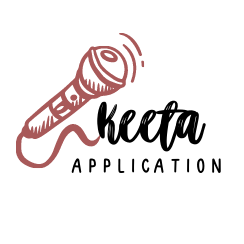
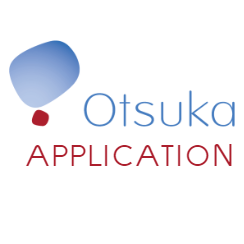
feat: 🎸 (edit-design)

Changed region(s): [[0.0287, 0.1148, 0.9754, 0.7172], [0.832, 0.4016, 0.8607, 0.4303]]

diff --git a/public/index.html b/public/index.html
@@ -3,10 +3,10 @@
     <head>
         <meta charset="UTF-8" />
         <meta name="viewport" content="width=device-width, initial-scale=1.0">
-        <title>KEETA</title>
+        <title>MSA</title>
         <link rel="stylesheet" href="style.css" />
         <link rel="shortcut icon" type="image/png" href="src/1.png"/>
-        <link rel="stylesheet" href="https://cdnjs.cloudflare.com/ajax/libs/font-awesome/4.7.0/css/font-awesome.min.css">
+        <link rel="stylesheet" href="https://cdnjs.cloudflare.com/ajax/libs/font-awesome/6.2.0/css/all.min.css" integrity="sha512-xh6O/CkQoPOWDdYTDqeRdPCVd1SpvCA9XXcUnZS2FmJNp1coAFzvtCN9BmamE+4aHK8yyUHUSCcJHgXloTyT2A==" crossorigin="anonymous" referrerpolicy="no-referrer" />
         <link href='https://unpkg.com/boxicons@2.1.1/css/boxicons.min.css' rel='stylesheet'>
         <script src="script.js" defer></script>
     </head>
@@ -21,13 +21,16 @@
             <!-- <div class="main"> -->
                     <div class="main-data" id="grad1">
                         <div class="main-texts">
-                            <p class="head-maintext">คีตา KEETA Application</p>
+                            <p class="head-maintext">MSA Application</p>
                             <p class="subhead-maintext">-------------------------------------</p>
-                            <p class="subhead-maintext">แอพพลิเคชั่น คีตศิลป์ไทย</p>
-                            <p class="sub-maintext" style="margin-top: 10px;">แอพพลิเคชั่น เรียนรู้หลักการขับร้องเพลงไทย ประวัติ เนื้อเพลง และอีกมากมายของคีตศิลป์ไทย ด้วยการนำเทคโนโลยีมาใช้ร่วมกับการเรียน เพื่อให้สามารถเรียนได้อย่างมีประสิทธิภาพมากขึ้น ทั้งนอกและในห้องเรียน สามารถดาวน์โหลดมาเรียนรู้ได้แล้วตอนนี้</p>
+                            <p class="subhead-maintext">แอพพลิเคชันคัดกรองภาวะทุพโภชนาการ </p>
+                            <p class="sub-maintext" style="margin-top: 10px; text-indent: 2.5em; text-align: justify;">เป็นการกรอกแบบประเมินคนไข้ที่มีความเสี่ยงต่อการเป็นภาวะขาดทุพโภชนาการและโรคต่าง ๆ เพื่อวิเคราะห์ว่ามีความเสี่ยงมากน้อยเพียงใด ถ้าวิเคราะห์ผลลัพธ์ที่ได้คือมีความเสี่ยงมาก ก็เข้าสู่แบบฟอร์มถัดไป แบบประเมินคนไข้ว่าช่วงก่อน  หลังผ่าตัดร่างกายต้องการสารอาหารอะไรบ้าง ในปริมาณเท่าไร แอปพลิเคชั่นนี้เพื่อเป็นการลดขั้นตอนต่าง ๆ ในการวิเคราะห์อีกทั้งเพื่ออำนวยความสะดวกให้คนไข้ และบุคคลากรทางการแพทย์ สามารถเรียนรู้ได้บนเว็บไซต์ของบริษัท ไทยโอสึกะได้แล้วตอนนี้</p>
                           </div>
                             <div class="buttonbox-main">
-                                <button type="submit" onclick="window.open('src/keeta.apk')" class="btn"><i class="fa fa-download"></i> คีตา KEETA (เฉพาะ Android เท่านั้น)</button>
+                                <button type="submit" onclick="window.open('src/keeta.apk')" class="btn"><i class="fa-brands fa-android"></i> MSA Application for Android </button>
+                        </div>
+                              <div class="buttonbox-main">
+                                <button type="submit" onclick="window.open('src/keeta.apk')" class="btn-ios"><i class="fa-brands fa-apple"></i></i> MSA Application for IOS</button>
                         </div>
                     <!-- </div> -->
             </div>
@@ -38,33 +41,34 @@
             </div> -->
             <div class="info-data">
             <div class="feature">
-            <h1 class="feature-h1"> ภายในแอพพลิเคชั่น | KEETA </h1>
+            <h1 class="feature-h1"> ภายในแอพพลิเคชั่น | MSA </h1>
             <div class="feat-right">
             <div class="box-container">
-                <div class="box"> 
-                    <div class="feat-icon">
-                    <i class='bx bxs-music bx-flip-horizontal bx-tada bx-md'></i></div>
-                    <h3 class="feature-h3">เปิดฟังได้ทุกที่ทุกเวลา</h3>
-                    <p class="box-text">คุณสามารถฟังการขับร้องเพลงไทยจากแอพพลิเคชั่นได้เลย</p>
-                </div>
                 <div class="box">  
                     <div class="feat-icon">
-                    <i class='bx bx-list-check bx-tada bx-md'></i></div> 
-                    <h3 class="feature-h3">ความถูกต้องของเนื้อหา</h3>
-                    <p class="box-text">เนื้อหาของเราได้รับการตรวจสอบอย่างถูกต้อง เน้นข้อมูลจริงๆ ในปัจุบัน</p>
+                    <i class='bx bx-id-card bx-tada bx-md'></i></div> 
+                    <h3 class="feature-h3">ไม่มีการเก็บข้อมูลการใช้งาน</h3>
+                    <p class="box-text">ไม่มีการสมัครสมาชิก ไม่ต้องเข้าสู่ระบบการใช้งาน</p>
                 </div>
-                <div class="box">     
+                <div class="box"> 
                     <div class="feat-icon">
-                    <i class='bx bxs-notepad bx-tada bx-md'></i></div>
-                    <h3 class="feature-h3">ระบบฝึกหัดการขับร้อง</h3>
-                    <p class="box-text">สามารถ เปิด - ปิดเสียง ไม่ว่าจะเป็น เสียงร้อง, ฉิ่ง และ การรับ - ส่งร้อง และ เสียงต่างๆ มากมายภายในแอพลิเคชั่นให้ ได้ทดสอบฝึกขับร้อง</p>
+                    <i class='bx bx-body bx-flip-horizontal bx-tada bx-md'></i></div>
+                    <h3 class="feature-h3">ระบบคำนวณดัชนีมวลกาย</h3>
+                    <p class="box-text">ทีสามารถคำนณดัชนีมวลกายได้ทั้งชายและหญิง</p>
                 </div>
-                <div class="box">     
+                  <div class="box">     
                     <div class="feat-icon">
-                    <i class='bx bxs-microphone-alt bx-tada bx-md'></i></div>
-                    <h3 class="feature-h3">ระบบร้องคาราโอเกะ</h3>
-                    <p class="box-text">คุณสามารถฟังเพลงไทยแล้วลองร้องด้วยตัวเอง หรือจะร้องร่วมกันก็ยังได้</p>
+                    <i class='bx bxs-bar-chart-alt-2 bx-tada bx-md'></i></div>
+                    <h3 class="feature-h3">ระบบแสดงผลเป็นกราฟ</h3>
+                    <p class="box-text">สามารถแสดงผลลัพธ์การกรอกข้อมูลที่ต้องการพลังงานเพิ่มในแตละวัน ออกมาเป็นกราฟได้</p>
                 </div>
+                <div class="box"> 
+                    <div class="feat-icon">
+                    <i class='bx bx-save bx-flip-horizontal bx-tada bx-md'></i></div>
+                    <h3 class="feature-h3">ระบบพิมพ์และดาวน์โหลด</h3>
+                    <p class="box-text">สามารถพิมพ์และดาวน์โหลดผลการประเมินเก็บไว้ได้</p>
+                </div>
+
             </div>
             </div>
             </div>
@@ -89,14 +93,9 @@
             <tbody>
               <tr>
                 <th scope="row">ตัวหลัก</th>
-                <td class="tb-center">07 - 05 - 2022</td>
+                <td class="tb-center">15 - 10 - 2022</td>
                 <td class="tb-center"><button class="btn-5"  onclick="window.open('src/keeta.apk')">download</button></td>
               </tr>
-              <tr>
-                <th scope="row">ตัวทดลอง</th>
-                <td class="tb-center">03 - 05 - 2022</td>
-                <td class="tb-center"><button class="btn-5-dis" disabled onclick="window.open('src/app-release.apk')">download</button></td>
-              </tr> 
             </tbody>
             </div>
           </table>
@@ -104,7 +103,7 @@
         
         <footer>
             <div class="footer-bottom">
-                <div class="footer-site-info">COPYRIGHT © TWEED | 2022</div>
+                <div class="footer-site-info">COPYRIGHT © GS COMPANY | 2022</div>
             </div>
         </footer>
     </body>

diff --git a/public/style.css b/public/style.css
@@ -53,7 +53,7 @@ header {
 
 .logo-text h1 {
   font-family: "Prompt", sans-serif;
-  color: #fe8d6f;
+  color: #000000;
   font-weight: 1000;
   font-size: 8px;
 }
@@ -141,7 +141,7 @@ header {
 }
 
 .head-maintext {
-  color: #fe8d6f;
+  color: #000000;
   font-weight: 1000;
   font-size: 8px;
 }
@@ -152,13 +152,13 @@ header {
 }
 
 .subhead-maintext {
-  color: #fe8d6f;
+  color: #000000;
   font-weight: 1000;
   font-size: 7px;
 }
 
 .sub-maintext {
-  color: #f886a8;
+  color: #000000;
   font-weight: 1000;
   font-size: 6px;
 }
@@ -203,6 +203,22 @@ header {
   align-items: center;
 }
 
+.btn-ios {
+  background-image: linear-gradient(
+    to right,
+    #000000 0%,
+    #000000 31%,
+    #000000 90%
+  );
+
+  border: none;
+  border-radius: 50px;
+  color: white;
+  padding: 7px 15px;
+  cursor: pointer;
+  font-size: 6px;
+  align-items: center;
+}
 @media (min-width: 550px) {
   .btn {
     padding: 12px 30px;
@@ -212,6 +228,14 @@ header {
   }
 }
 
+@media (min-width: 550px) {
+  .btn-ios {
+    padding: 12px 30px;
+    font-size: 23px;
+    font-weight: 700;
+    align-items: center;
+  }
+}
 /* Darker background on mouse-over */
 .btn:hover {
   background-position: right center;
@@ -339,7 +363,7 @@ header {
   font-size: 15px;
   text-align: center;
   margin-top: 5%;
-  color: #fe8d6f;
+  color: #000000;
 }
 
 @media (min-width: 550px) {
@@ -357,7 +381,7 @@ header {
   font-size: 10px;
   margin-top: 1%;
   text-align: center;
-  color: #fe8d6f;
+  color: #000000;
 }
 
 @media (min-width: 550px) {
@@ -443,7 +467,7 @@ header {
 }
 
 .box-text {
-  color: #f886a8;
+  color: #000000;
   font-weight: 500;
   font-size: 8px;
   margin-top: 3%;
@@ -452,7 +476,7 @@ header {
 }
 
 .feat-icon {
-  color: #fe8d6f;
+  color: #000000;
 }
 
 @media (min-width: 550px) {
@@ -543,7 +567,7 @@ header {
 }
 
 .box-text-2 {
-  color: #fe8d6f;
+  color: #000000;
   font-weight: 500;
   text-align: left;
   font-size: 10px;
@@ -567,7 +591,7 @@ header {
   text-align: left;
   font-family: "Prompt", sans-serif;
   font-size: 12px;
-  color: #fe8d6f;
+  color: #000000;
 }
 
 @media (min-width: 550px) {
@@ -583,7 +607,7 @@ header {
   font-family: "Prompt", sans-serif;
   font-size: 15px;
   text-align: center;
-  color: #fe8d6f;
+  color: #000000;
 }
 
 @media (min-width: 550px) {
@@ -644,14 +668,14 @@ header {
 }
 
 .featurees a {
-  color: #fe8d6f;
+  color: #000000;
   font-weight: 500;
 }
 
 .featurees h4 {
   text-align: center;
   font-weight: 600;
-  color: #fe8d6f;
+  color: #000000;
   letter-spacing: 1px;
   justify-content: center;
   font-size: 16px;
@@ -661,7 +685,7 @@ header {
 @media (min-width: 550px) {
   .featurees h4 {
     font-weight: 600;
-    color: #fe8d6f;
+    color: #000000;
     letter-spacing: 1px;
     font-size: 1.5rem;
     margin-bottom: 1rem;
@@ -676,7 +700,7 @@ header {
 @media (min-width: 550px) {
   .featurees-text {
     font-weight: 600;
-    color: #fe8d6f;
+    color: #000000;
     letter-spacing: 1px;
     font-size: 1.5rem;
     margin-bottom: 1rem;
@@ -700,7 +724,7 @@ header {
 
 .footer-bottom {
   margin-top: 8%;
-  color: #cd48ff;
+  color: #000000;
   font-family: "Prompt", sans-serif;
   text-align: center;
   padding: 20px 20px;
@@ -721,7 +745,7 @@ header {
 .footer-site-info {
   font-size: 8px;
   font-family: "Prompt", sans-serif;
-  color: #fe8d6f;
+  color: #000000;
   text-align: center;
 }
 
@@ -740,7 +764,7 @@ a {
   font-family: "Prompt", sans-serif;
   text-align: center;
   font-weight: 700;
-  color: #fe8d6f;
+  color: #000000;
   font-size: 15px;
 }
 
@@ -761,7 +785,7 @@ table {
   font-weight: 500;
   box-shadow: 0 5px 10px rgba(0, 0, 0, 0.12);
   width: 90%;
-  color: #631b7e;
+  color: #000000;
   table-layout: fixed;
   margin-top: 1%;
   margin-left: 5%;
@@ -800,14 +824,14 @@ th {
   padding: 15px 10px;
   font-weight: 500;
   font-size: 10px;
-  color: #f886a8;
+  color: #000000;
   text-transform: uppercase;
 }
 td {
   padding: 10px;
   vertical-align: middle;
   font-size: 8px;
-  color: #f886a8;
+  color: #000000;
   border-bottom: solid 1px rgba(255, 255, 255, 0.1);
   cursor: pointer;
 }
@@ -820,7 +844,7 @@ td {
 }
 
 .btn-5 {
-  background-color: #fe8d6f;
+  background-color: #000000;
   border: none;
   border-radius: 50px;
   color: white;
@@ -840,7 +864,7 @@ td {
 
 /* Darker background on mouse-over */
 .btn-5:hover {
-  background-color: rgb(253, 159, 83);
+  background-color: #2a3158;
 }
 
 .btn-5-dis {
